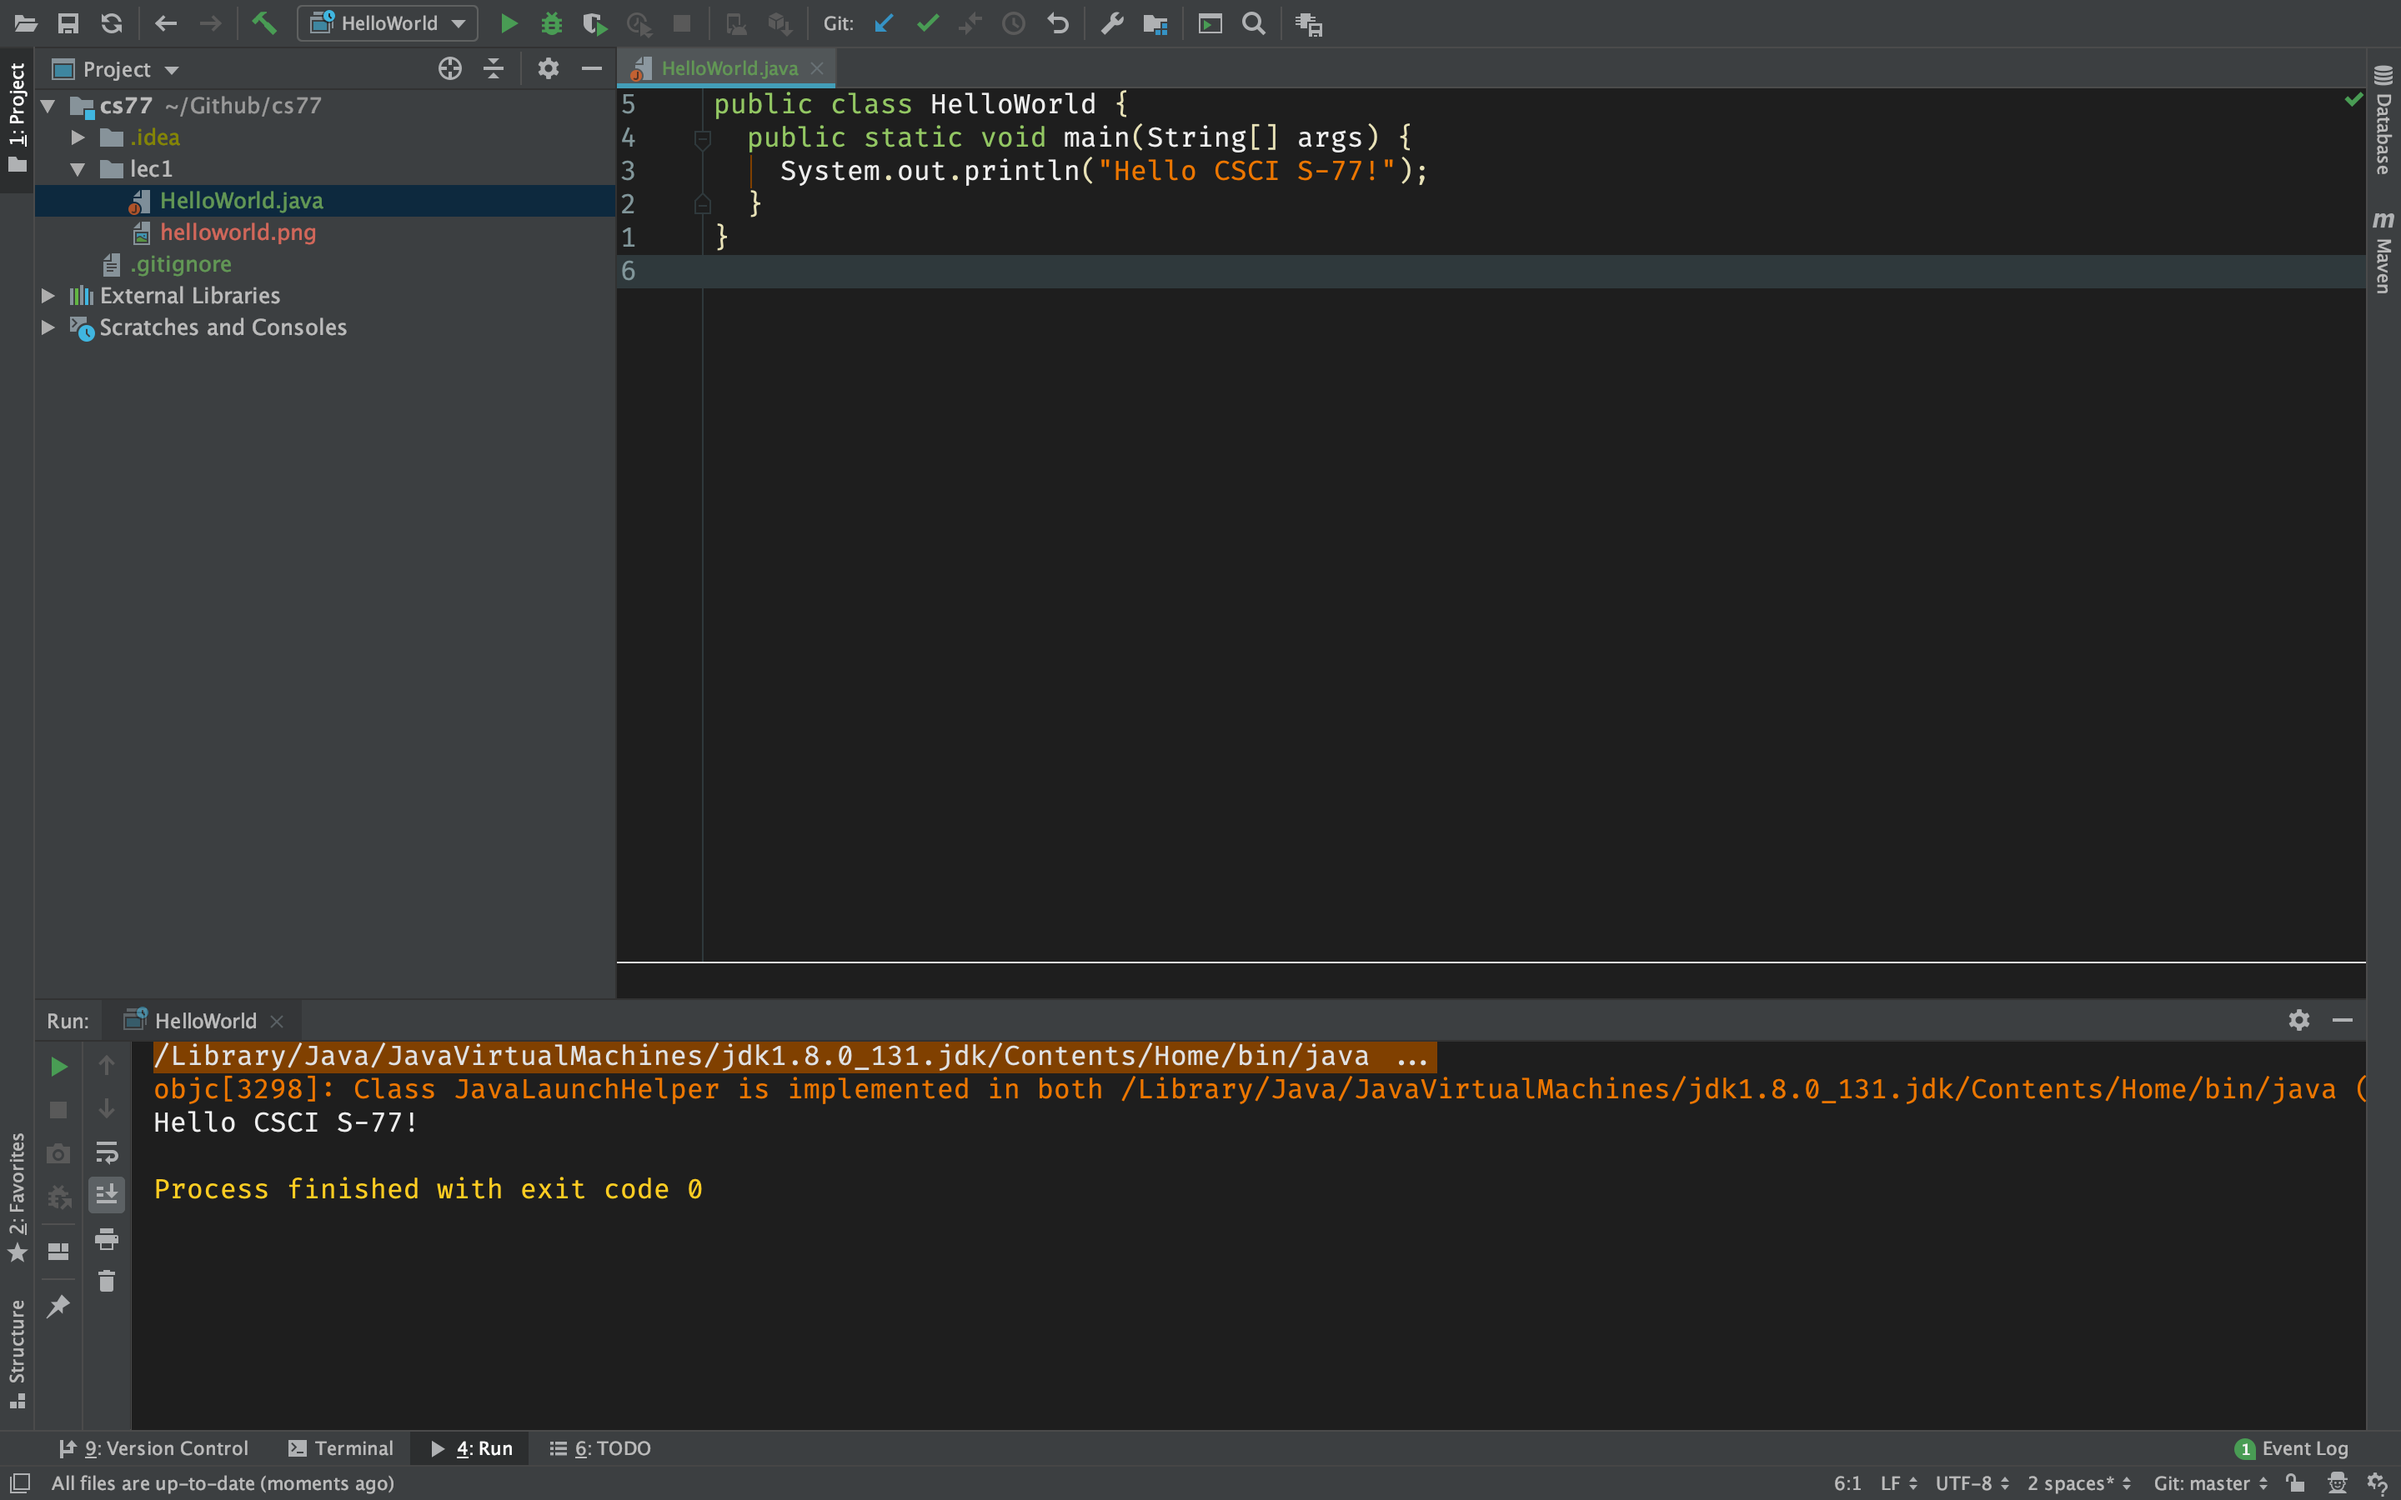
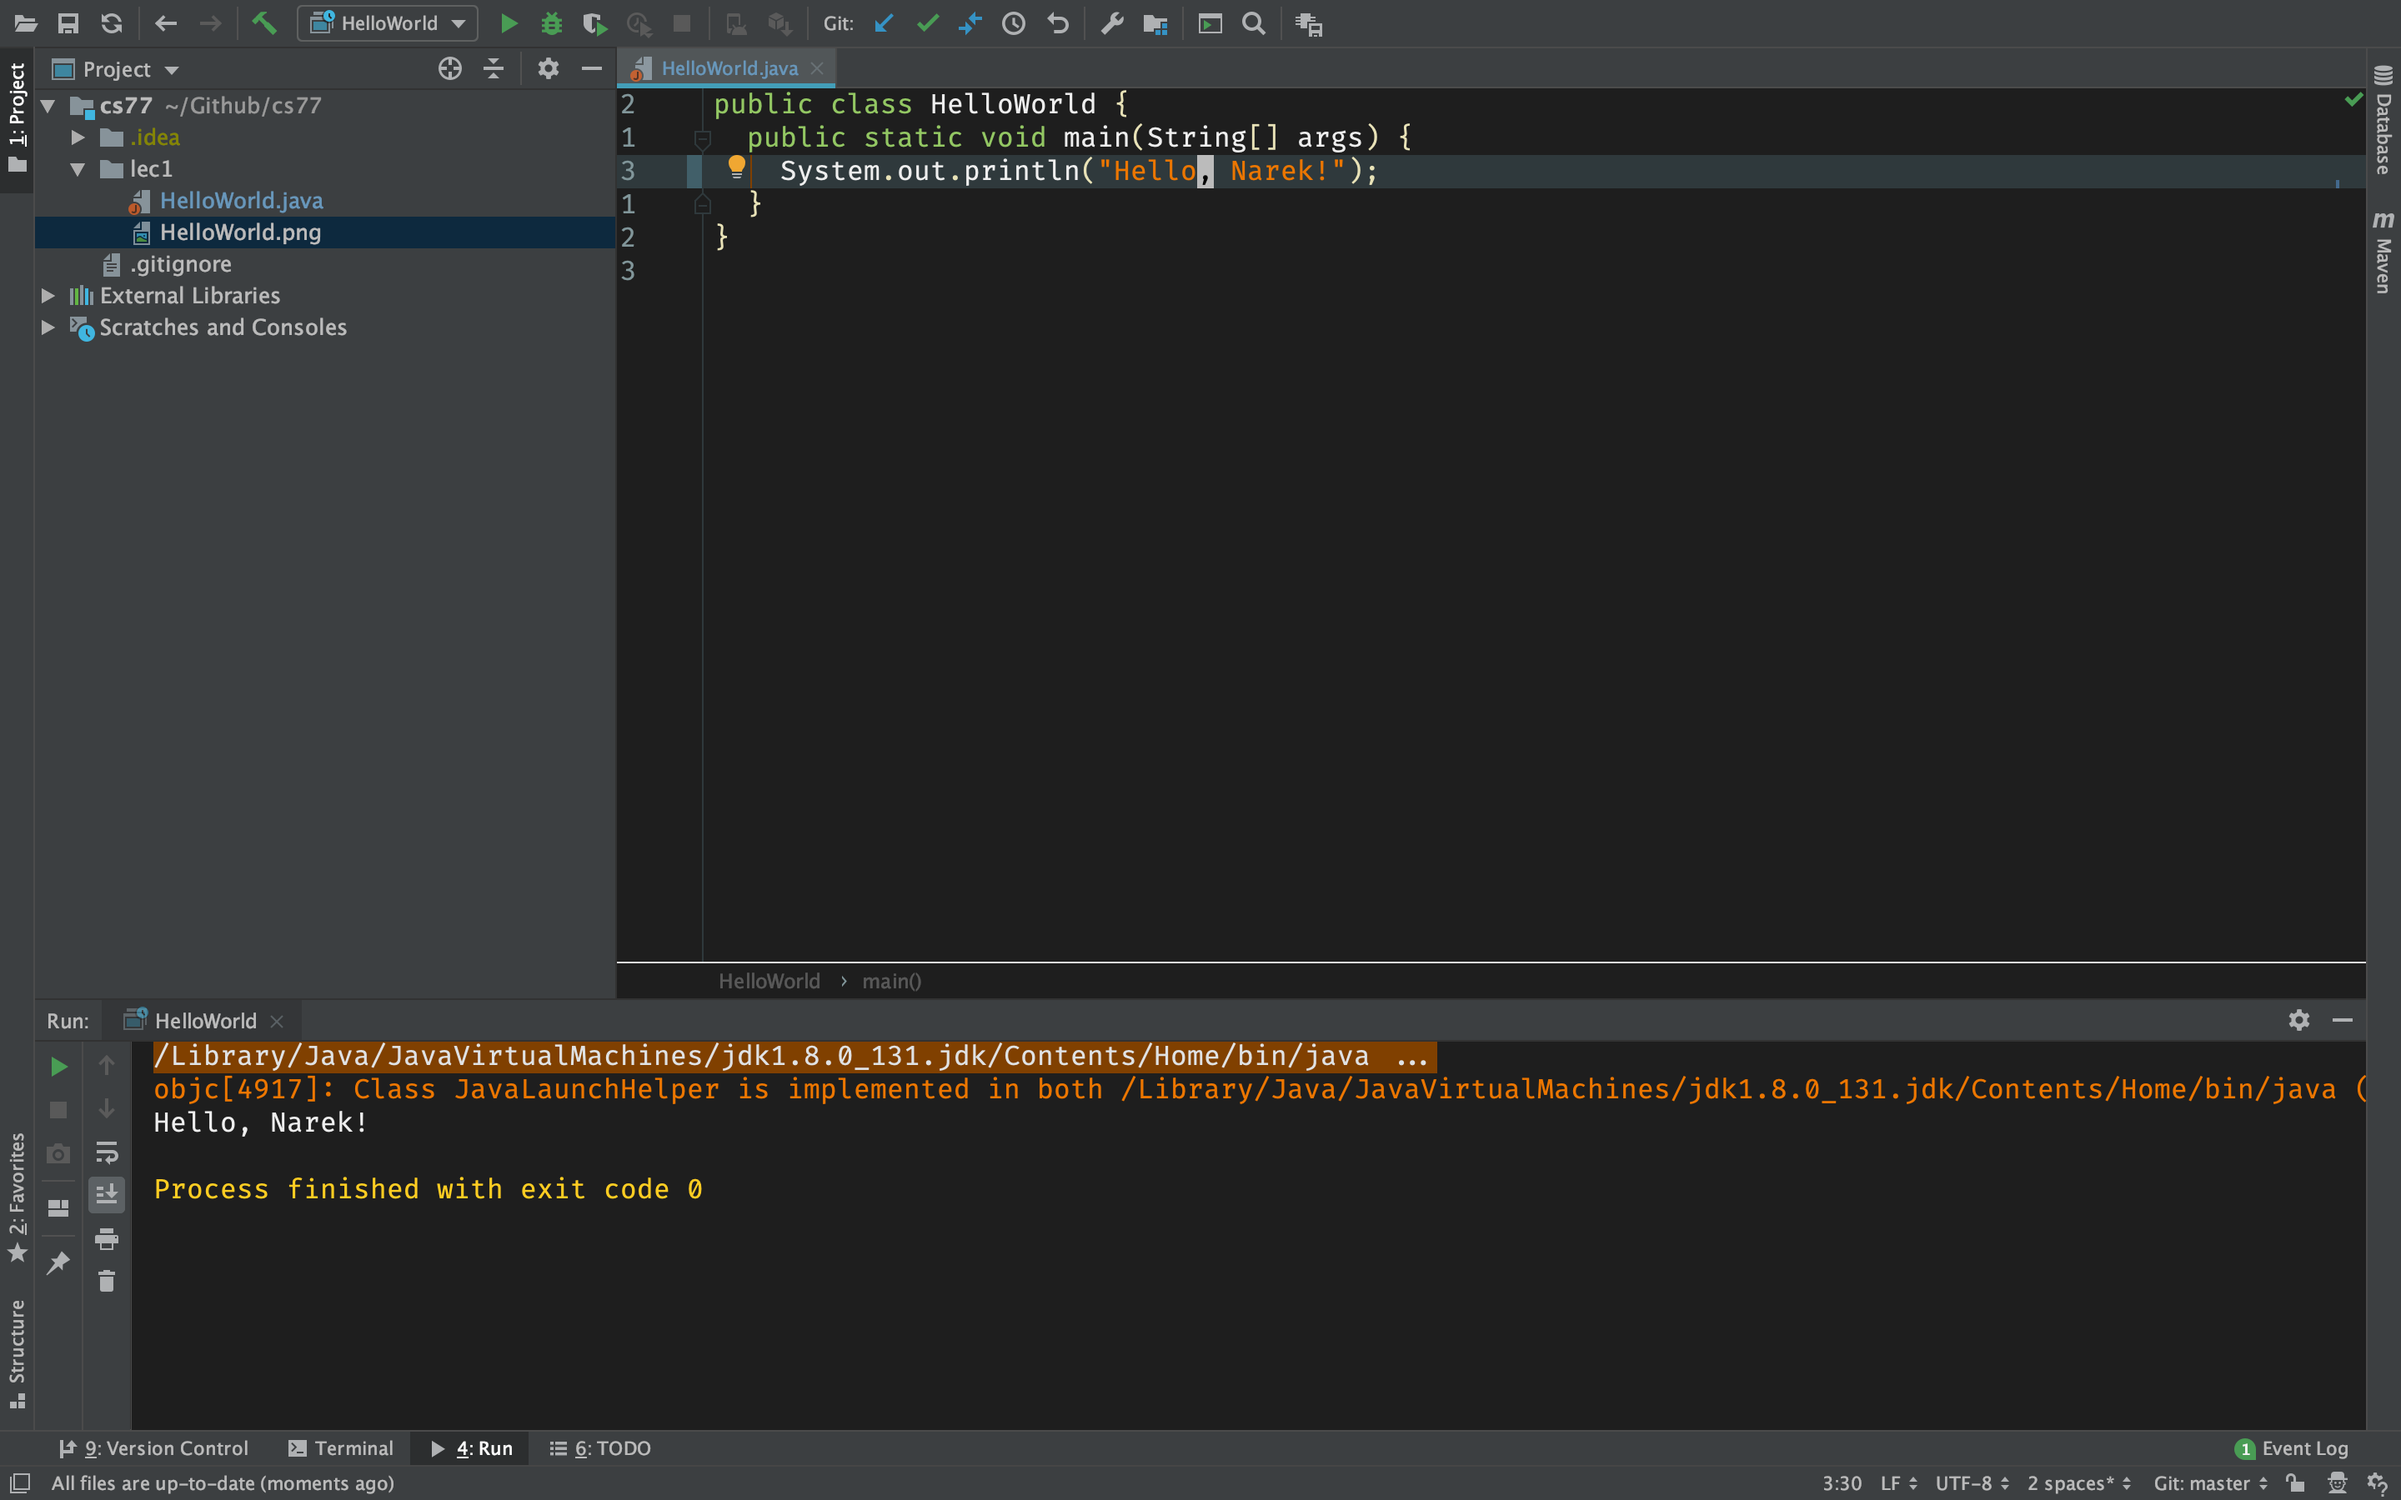
modify

diff --git a/lec1/HelloWorld.java b/lec1/HelloWorld.java
@@ -1,5 +1,5 @@
 public class HelloWorld {
   public static void main(String[] args) {
-    System.out.println("Hello CSCI S-77!");
+    System.out.println("Hello, Narek!");
   }
 }
